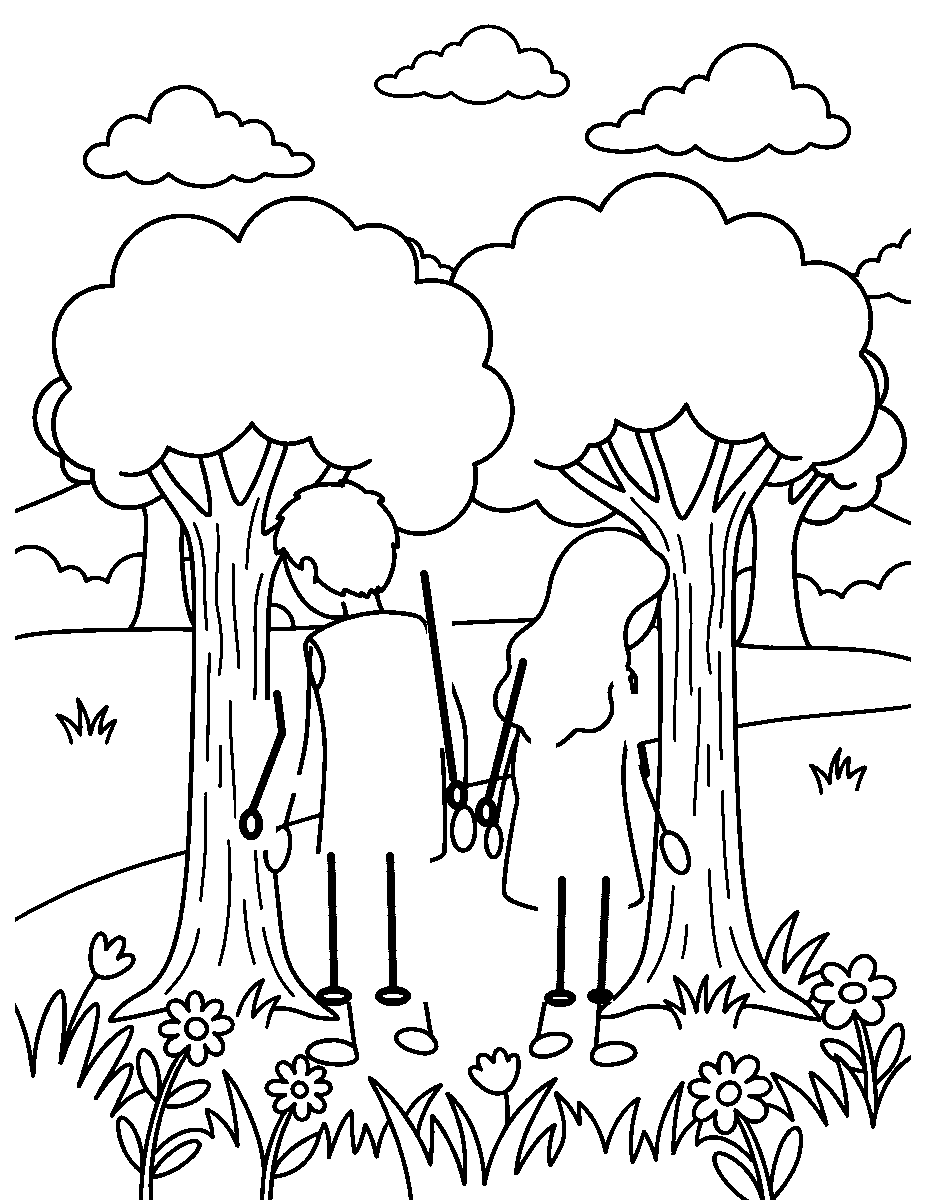
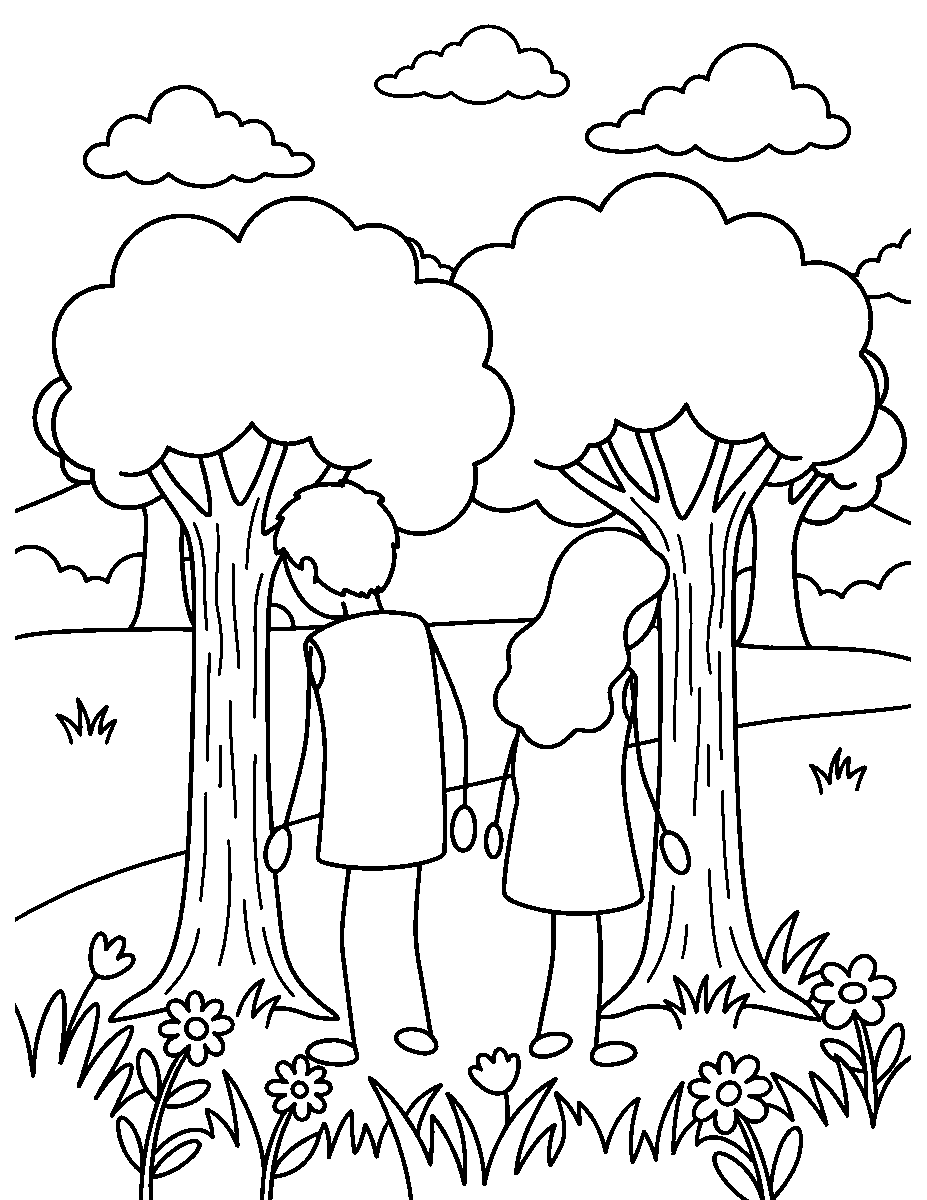
he-didnt-walk-away: p3 — stale hand corrections removed from limbfix.py (a bad splice had kept them), page rebuilt clean from attempt-08; all checks PASS

diff --git a/he-didnt-walk-away/art/limbfix.py b/he-didnt-walk-away/art/limbfix.py
@@ -37,42 +37,6 @@ OPS = {
     # the first couple's two-sided legs refitted as single lines; mitten/pointing hands → plain
     # ovals. Zones measured on the processed pages (927 x 1200) from ink-run scans.
     # 3: retired 2026-10-18 — p3 re-rolled (round 4, attempt-08 chosen) with clean single-line limbs; no corrections needed.
-    # p5: the sky wind marks erased (editor 2026-10-17) — see the p5 entry below.
-    # Limb corrections (editor 2026-10-17, "correct all the limbs on pages 3, 5, 7, 9, 15, 21"):
-    # the first couple's two-sided legs refitted as single lines; mitten/pointing hands → plain
-    # ovals. Zones measured on the processed pages (927 x 1200) from ink-run scans.
-    3: [  # the trunk edge runs into both the man's left leg and his arm, so these are drawn explicitly
-        # woman's legs (right leg borders the trunk; the zone's right edge follows the trunk edge)
-        ("erase", [(538, 886), (629, 886), (627, 935), (613, 965), (613, 1002), (538, 1002)]),
-        ("line", [(562, 880), (560, 990)]), ("oval", (560, 998, 16, 9)),
-        ("line", [(606, 880), (601, 988)]), ("oval", (600, 996, 13, 8)),
-        # man's legs (the zone's left edge follows the trunk edge + 6 px)
-        ("erase", [(296, 858), (430, 858), (430, 1002), (336, 1002), (326, 982), (312, 962), (304, 935), (298, 905)]),
-        ("line", [(331, 856), (334, 988)]), ("oval", (334, 996, 18, 10)),
-        ("line", [(390, 856), (393, 988)]), ("oval", (393, 996, 18, 10)),
-        # man's left arm: the forearm hanging out from behind the trunk — two-sided + lens hand → one line + oval
-        ("erase", [(236, 700), (276, 700), (276, 850), (236, 850)]),            # left of the trunk edge
-        ("erase", [(289, 700), (300, 700), (300, 748), (289, 748)]),            # the inner arm line right of the edge
-        ("line", [(277, 694), (282, 734)]),                                    # the trunk edge, restored where the old arm merged into it
-        ("erase", [(288, 775), (303, 775), (303, 793), (288, 793)]),            # bar of the old hand against the garment
-        ("line", [(281, 735), (253, 808)]), ("oval", (251, 824, 12, 16)),
-        # woman's RIGHT arm: a lens drawn across her back against the trunk → its inner contour erased (the arm is behind the trunk)
-        ("erase", [(596, 604), (612, 604), (645, 760), (632, 770)]),            # the lens's inner line, shoulder to where it meets the trunk
-        ("erase", [(630, 694), (642, 694), (642, 714), (630, 714)]),            # its elbow chunk
-        ("line", [(641, 746), (646, 774)]),                                    # the edge smoothed where the lens met it
-        ("erase", [(600, 592), (615, 592), (615, 618), (600, 618)]),            # the lens's tip beside the hair
-        ("erase", [(296, 712), (302, 712), (302, 726), (296, 726)]),            # spur of the old arm at the garment
-        # man's RIGHT arm: a two-sided contour hugging the garment's right edge → erased outside the edge, one line + oval
-        ("erase", [(425, 555), (452, 555), (452, 748), (424, 748), (426, 700), (427, 640)]),
-        ("line", [(424, 574), (453, 778)]), ("oval", (457, 795, 11, 15)),
-        # woman's LEFT arm: a lens drawn over the dress → the inner contour erased, one line outside the dress + oval
-        ("erase", [(531, 652), (556, 652), (556, 750), (531, 750)]),
-        ("line", [(523, 662), (489, 796)]), ("oval", (486, 812, 11, 15)),
-        # stubs of the old two-sided legs just under the hems
-        ("erase", [(309, 854), (320, 854), (320, 861), (309, 861)]), ("erase", [(344, 854), (355, 854), (355, 861), (344, 861)]),
-        ("erase", [(367, 854), (378, 854), (378, 861), (367, 861)]), ("erase", [(403, 854), (414, 854), (414, 861), (403, 861)]),
-        ("erase", [(542, 884), (553, 884), (553, 887), (542, 887)]), ("erase", [(573, 884), (584, 884), (584, 887), (573, 887)]),
-        ("erase", [(586, 884), (597, 884), (597, 887), (586, 887)]), ("erase", [(617, 884), (628, 884), (628, 887), (617, 887)])],
     5: [("erase", [(285, 78), (555, 78), (555, 236), (285, 236)]),
         ("erase", [(430, 258), (645, 258), (645, 322), (430, 322)]),
         ("erase", [(640, 274), (666, 274), (666, 290), (640, 290)]),
